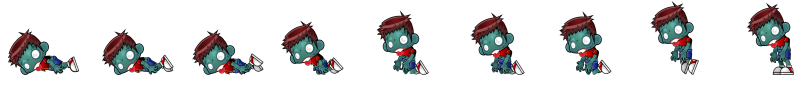
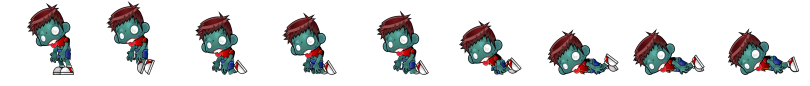
Fixed Zombie death animation

Changed region(s): [[0.5556, 0.0465, 0.9877, 0.8837], [0.0, 0.0233, 0.4321, 0.8837], [0.0309, 0.0465, 0.0617, 0.0698]]

diff --git a/src/EntityAnimation.java b/src/EntityAnimation.java
@@ -23,7 +23,7 @@ public class EntityAnimation {
     
     
     private static final int COLUMNS  =   9;
-    private static final int COUNT    =  6;
+    private int COUNT    =  6;
     private static final int OFFSET_X =  0;
     private static final int OFFSET_Y =  0;
     private static final int WIDTH    = 90;
@@ -75,6 +75,44 @@ public class EntityAnimation {
     }
     
     public void Death() {
-    	this.IMAGE = new Image("images/" + action + "_death.png");	
+    	
+    	this.COUNT = 9;
+    	IMAGE = new Image("images/" + action + "_death.png");
+    	final ImageView imageView = new ImageView(IMAGE);
+        imageView.setViewport(new Rectangle2D(OFFSET_X, OFFSET_Y, WIDTH, HEIGHT));
+
+        final Animation animation = new SpriteAnimation(
+                imageView,
+                Duration.millis(1000),
+                this.COUNT, COLUMNS,
+                OFFSET_X, OFFSET_Y,
+                WIDTH, HEIGHT
+        );
+        
+        
+        
+        animation.setCycleCount(animation.INDEFINITE);
+        animation.play();
+        
+        
+        GridPane pane = new GridPane();
+        pane.setVgap(10);
+        pane.setHgap(10);
+        pane.add(imageView, 0, 0);
+        
+        // move the zombie from right to left
+        TranslateTransition translateTransition = new TranslateTransition();
+        translateTransition.setDuration(Duration.millis(2000));
+        translateTransition.setNode(pane);
+        translateTransition.setFromX(300);
+        translateTransition.setToX(300);
+        translateTransition.setFromY(this.y_cor);
+       
+        translateTransition.setDuration(Duration.seconds(25));
+        translateTransition.play();
+        
+        // A Group object has no layout of children easier to use here
+        pane.setMouseTransparent(true);
+        this.root1.getChildren().add(pane);
     }
 }

diff --git a/src/TDView.java b/src/TDView.java
@@ -136,7 +136,7 @@ public class TDView extends Application implements Observer {
 			anime.add(tower);
 		}
 		for(int i = 0; i<5;i++) {
-			
+			anime.get(i).Death();
 			
 		}
 		
